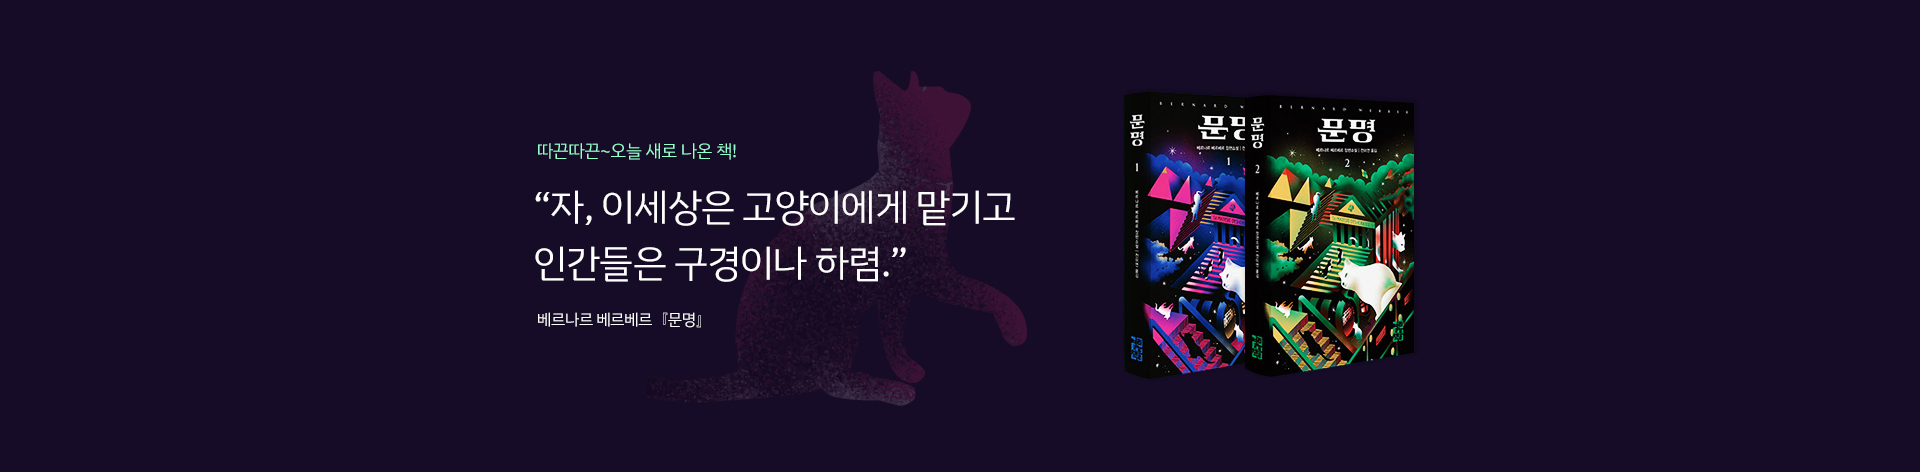
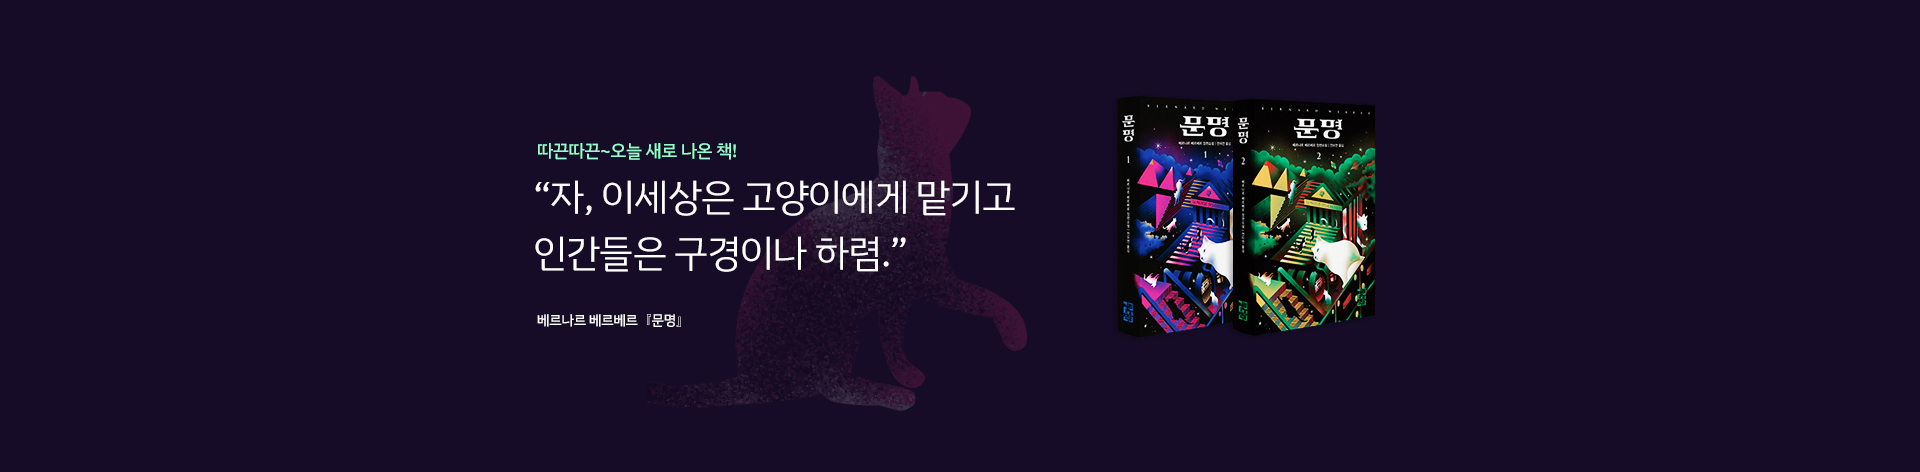
081903

diff --git a/aladin/css/main.css b/aladin/css/main.css
@@ -1,4 +1,3 @@
-
 #particles-js {
     position: absolute;
     top: -50%;
@@ -182,40 +181,22 @@ header {
 
 /*mainVisual*/
 
-#mainVisual{
+#mainVisual {
     width: 100%;
     height: 469px;
     background: #160c27;
     position: relative;
 }
-.mainbn li a{
-    width: 100%;
-    height: 469px;
-    display: block;
-    background: url(../img/main1.jpg)no-repeat center center;
-}
-.mainbn li:nth-child(1) a{
-    width: 100%;
-    height: 469px;
-    background: url(../img/main1.jpg)no-repeat center center;
-}
-.mainbn li:nth-child(2) a{
-    background: url(../img/main1.jpg)no-repeat center center;
-}
-.mainbn li:nth-child(3) a{
-    background: url(../img/main1.jpg)no-repeat center center;
-}
-.mainbn li:nth-child(4) a{
-    background: url(../img/main1.jpg)no-repeat center center;
-}
 
-.slick-dots{
+.slick-dots {
     position: absolute;
-    left: 50%;bottom: 10px;
+    left: 50%;
+    bottom: 9px;
     transform: translate(-100%);
     display: flex;
 }
-.slick-dots li button{
+
+.slick-dots li button {
     width: 112px;
     height: 50px;
     background-color: rgba(255, 255, 255, 0.7);
@@ -225,11 +206,12 @@ header {
     transition: all 0.2s;
     color: #160c27;
     outline: none;
-    border:0;
+    border: 0;
     font-family: 'IBMPlexSansKR-Medium';
     font-size: 14px;
 }
-.slick-dots li.slick-active button{
+
+.slick-dots li.slick-active button {
     background-color: #97ffcd;
     transform: translateY(9px);
     color: #402674;

diff --git a/css/main.css b/css/main.css
@@ -312,7 +312,7 @@ canvas {
 }
 
 .hello {
-  height: 50vh;
+  height: 70vh;
 }
 
 .hello1 {
@@ -325,7 +325,7 @@ canvas {
   -webkit-background-clip: text;
   background-size: 400% 400%;
   animation: Gradient 5s ease infinite;
-  font-weight:800;
+  font-weight: 800;
 }
 
 .hello2 {
@@ -338,7 +338,7 @@ canvas {
   -webkit-background-clip: text;
   background-size: 400% 400%;
   animation: Gradient 5s ease infinite;
-  font-weight:800;
+  font-weight: 800;
 }
 
 .think {
@@ -353,7 +353,7 @@ canvas {
   font-size: 22px;
   font-weight: 500;
   color: #fff;
- /*  text-shadow: -1px 0px #fff, 0px 1px #fff, 1px 0px #fff, 0px -1px #fff; */
+  /*  text-shadow: -1px 0px #fff, 0px 1px #fff, 1px 0px #fff, 0px -1px #fff; */
 }
 
 .pas {
@@ -803,22 +803,27 @@ canvas {
 .uiuxlist>img {
   width: 100%;
 }
-.uiuxlist div:hover{
-  animation-name: listhover ;
+
+.uiuxlist div:hover {
+  animation-name: listhover;
   animation-duration: 1s;
   animation-iteration-count: infinite;
 }
+
 @keyframes listhover {
-  0%{
+  0% {
     opacity: 1;
   }
-  50%{
+
+  50% {
     opacity: 0.5;
   }
-  100%{
+
+  100% {
     opacity: 1;
   }
 }
+
 .uiuxlist div:nth-child(1) {
   position: absolute;
   top: 25vh;

diff --git a/aladin/index.html b/aladin/index.html
@@ -54,10 +54,10 @@
         </header><!-- header -->
         <div id="mainVisual">
             <ul class="mainbn">
-                <li><a href="#"></a></li>
-                <li><a href="#"></a></li>
-                <li><a href="#"></a></li>
-                <li><a href="#"></a></li>
+                <li><img src="img/main1.jpg"></li>
+                <li><img src="img/main2.jpg"></li>
+                <li><img src="img/main3.jpg"></li>
+                <li><img src="img/main4.jpg"></li>
             </ul>
         </div><!-- mainVisualin -->
     </div><!-- mainVisual -->
@@ -290,7 +290,8 @@
                 autoplaySpeed: 1000, //자동재생시 이미지가 유지되는 시간
                 pauseOnHover: true, //마우스 hover시 자동재생 멈춤 여부
                 infinite: true, //무한반복여부
-                vertical: true,//세로슬라이드
+                fade: true
+
             });
             $('.slick-dots li:nth-child(1) button').text('새로나온책');
             $('.slick-dots li:nth-child(2) button').text('7월 EVENT');
